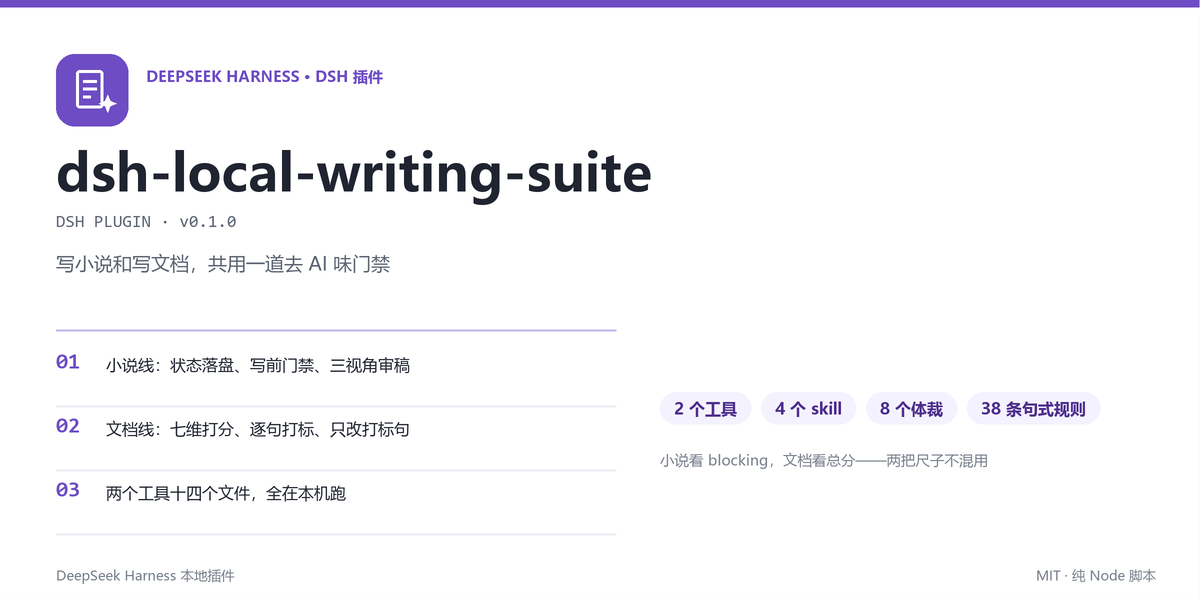
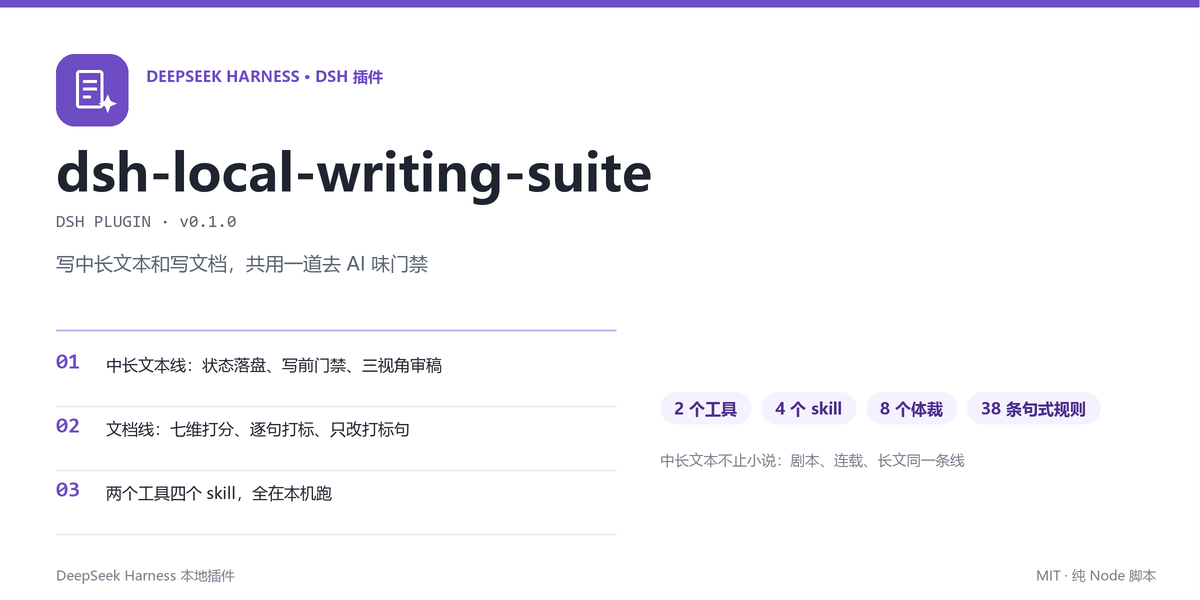
docs: 定位改为中长文本（例如小说），补备注与首图

diff --git a/README.md b/README.md
@@ -2,7 +2,7 @@
 
 ![banner](assets/readme/banner.png)
 
-> DSH 本地插件。2 个工具、4 个 skill，小说线和文档线共用一道门禁。
+> DSH 本地插件。2 个工具、4 个 skill，中长文本线（例如小说）和文档线共用一道门禁。
 
 第 40 章的坑往往来自第 12 章。这件事交给状态文件。
 
@@ -14,11 +14,13 @@
 
 装进 DSH 后多出 2 个工具、4 个 skill，全程本机运行，联网次数 0。
 
+中长文本这条线不限于小说。剧本、连载也算。按章或按节推进，状态文件管连续性。
+
 | 组成 | 干什么 |
 | --- | --- |
 | `deai_audit` | 七维打分，逐句打标，带行号与门禁结论 |
 | `deai_audit_config` | 管配置：看、列、写、恢复默认 |
-| `writing-suite` | 入口路由，2 条线：小说、文档 |
+| `writing-suite` | 入口路由，2 条线：中长文本（例如小说）、文档 |
 | `novel-write` | 开书到续写，按章推进 |
 | `novel-review` | 机器 lint 打底，再走 3 视角人读 |
 | `doc-review` | 7 类文档：简历到标书 |
@@ -33,13 +35,13 @@ node install.mjs
 `install.mjs` 做 4 件事，重复执行安全。
 
 1. 备份 profile 的 `package.json` 到 `~/.dsh/backups/`
-2. 复制插件到 `~/.dsh/local-plugins/dsh-local-writing-suite`
+2. 复制插件到 `~/.dsh/local-plugins/`
 3. 挂 `link:` 依赖，建 1 个 node_modules junction
 4. 复制 4 个 skill 到 `~/.dsh/skills/`
 
 装完重启 DSH。工具在进程启动时注册，热更目录不会重载。
 
-装完不放心，跑自检。它查 7 项：插件目录、依赖、node_modules 链接、工具注册、体裁表、门禁实跑 2 次、skill 安装。
+装完不放心，跑自检。它查 7 项。前 4 项看装没装，后 3 项看跑不跑。
 
 ```bash
 node tests/verify-install.mjs          # 全部通过 exit 0
